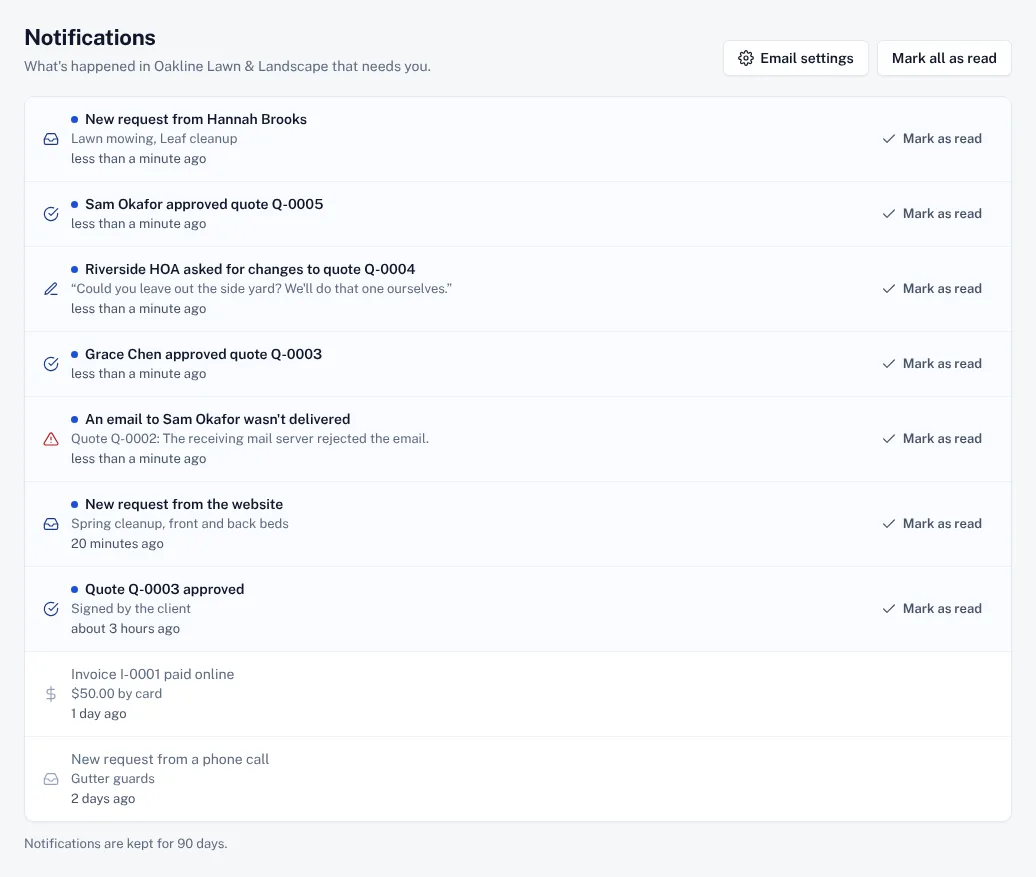
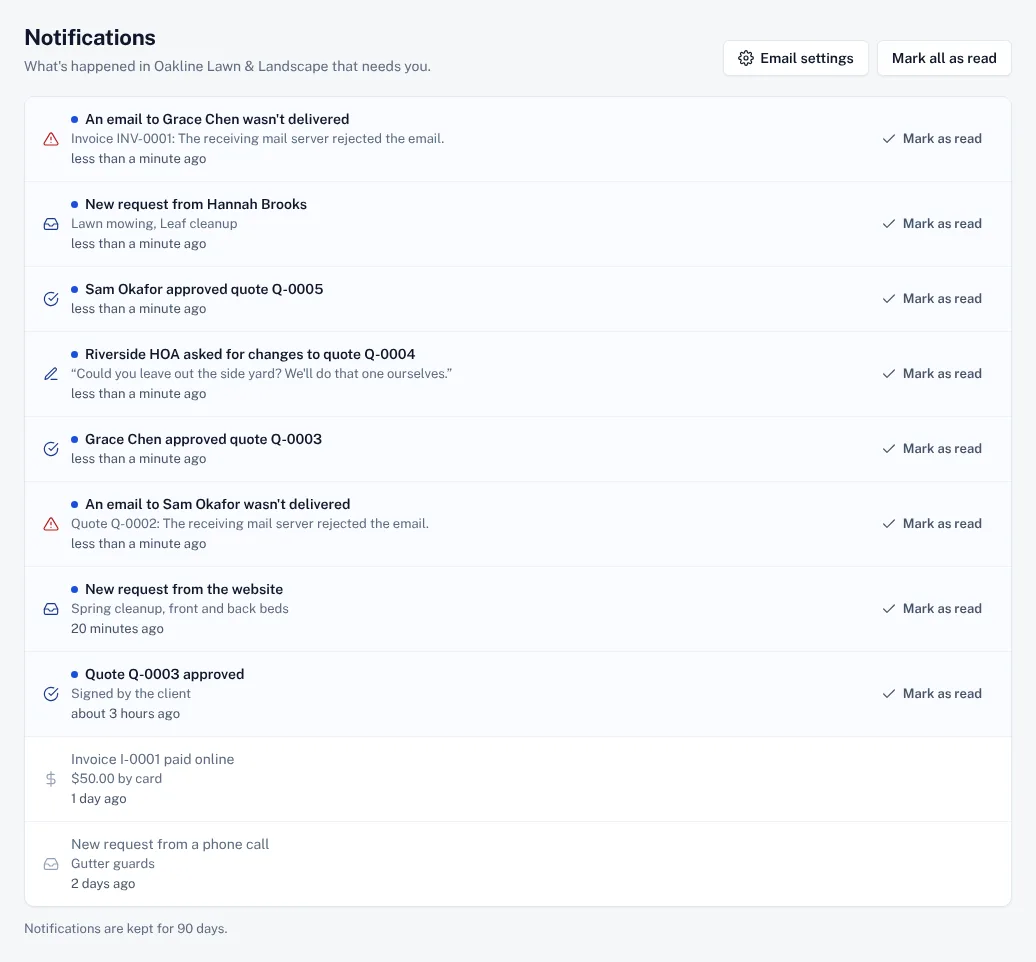
Help: recapture Notifications now that late bounces notify; the article names them
NTF-05 merged first, and its demo bounces add "An email to … wasn't delivered" to the bell.

Claude-Session: https://claude.ai/code/session_01STSMyyw2JA3DZHFPa2E6RQ

diff --git a/content/help/articles/notifications.md b/content/help/articles/notifications.md
@@ -12,7 +12,8 @@ screenshots:
 ---
 
 The bell at the top of every page shows what needs you: a new request, a quote approved, a
-payment, a visit you're on that's moved. The number on it is how many you haven't read.
+payment, an email that didn't reach a client, a visit you're on that's moved. The number on it is
+how many you haven't read.
 
 ![Notifications: open one to go to what it's about, or press Mark all as read](notifications)
 
